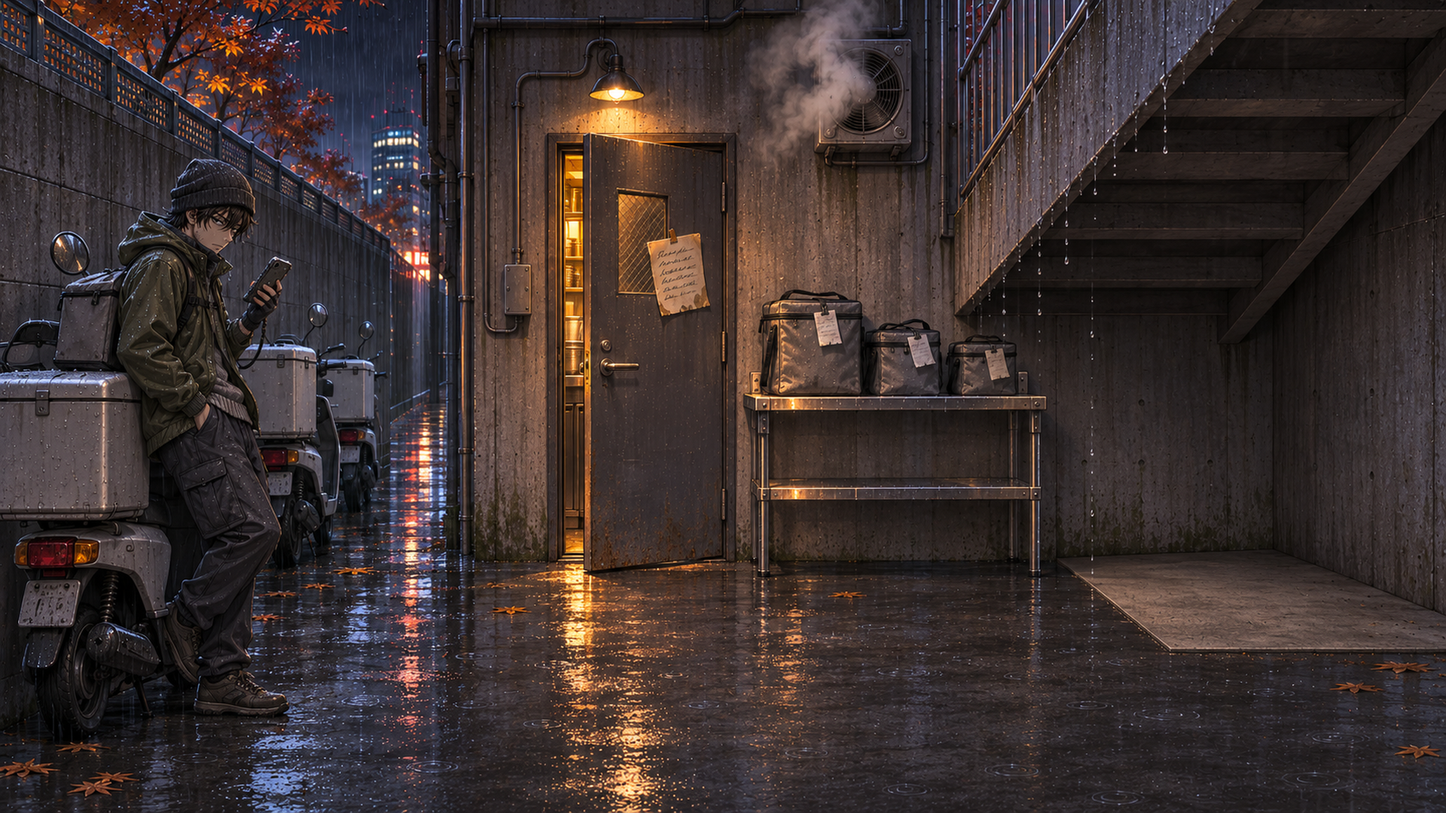
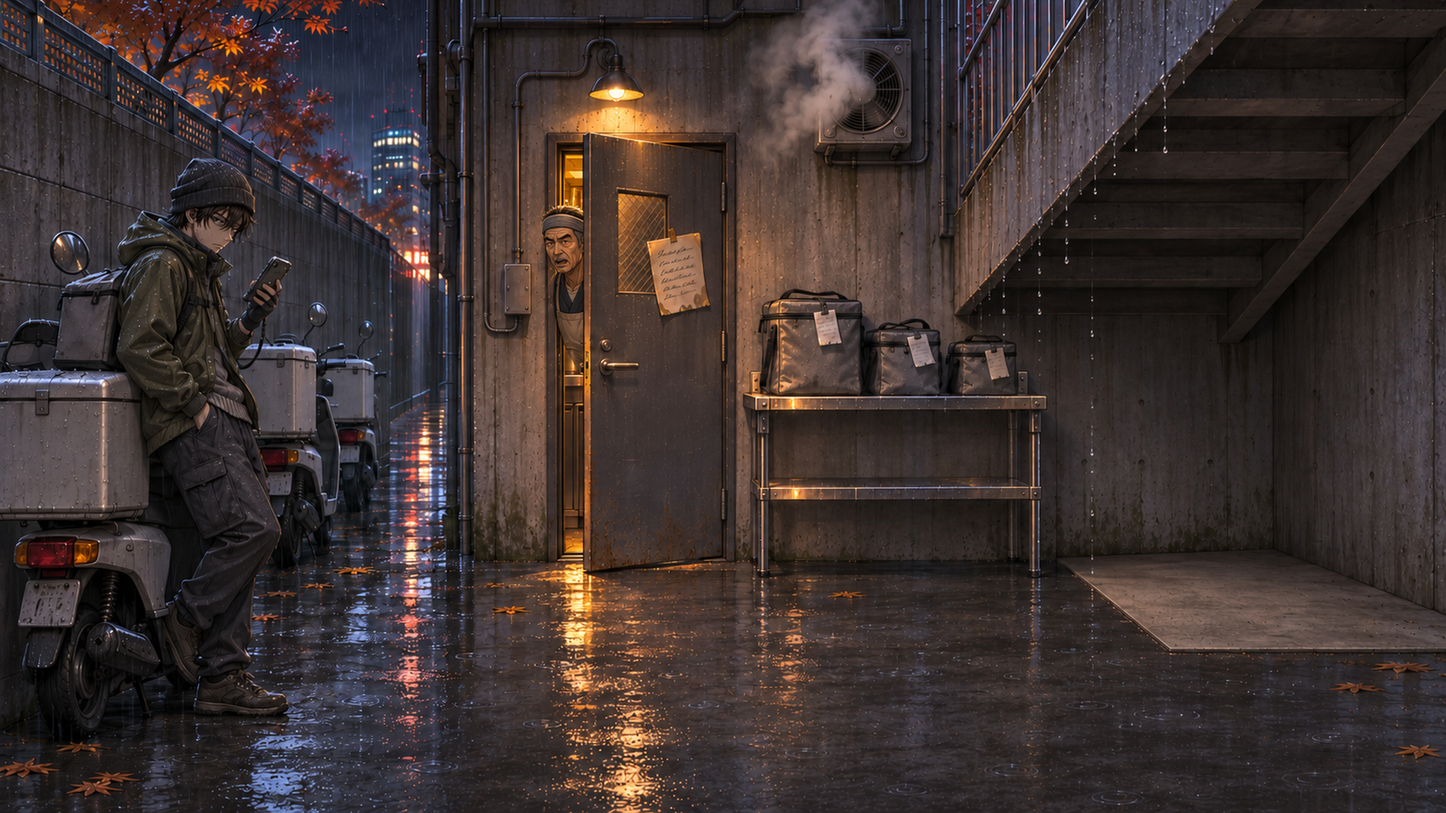
art: add chapter 2 investigation witnesses

diff --git a/docs/stories_plan/chapter_2/investigation_scene_10.md b/docs/stories_plan/chapter_2/investigation_scene_10.md
@@ -128,7 +128,7 @@
 
 ## Sub-location: 拉麵店後門 {#ramen_backdoor}
 - **Status:** locked
-- **Background Prompt:** Investigation view deeper in the same narrow alley at night in light rain, eye-level medium shot facing the rear service door of a small late-night ramen shop at the alley's end, focal area on the back door standing slightly ajar with warm yellow light, a small bare lamp just above it, and a stainless-steel delivery pickup shelf bolted to the wall at the right of the door, holding a few gray insulated bags with soft limp paper slips clipped to their mouths, a hand-written paper notice taped crookedly on the door with unreadable scrawl; an exhaust fan high on the wall above the door breathing out white steam; the dark concrete underside of the staircase forming a low eave over a clearly dry rectangle of pavement to the right of the shelf with a sharp dry-to-wet boundary and a row of drips falling along the stair edge, kept empty; stable anchors of delivery scooters parked along the left wall and glistening puddles carrying faint shifting white and orange light, with the shelf, the dry rectangle and the puddles all sitting in the mid-ground above the bottom third; the giant facade screen itself is not visible anywhere in frame, only its shifting light on the wet ground; no one in the doorway. Yuzuki Riku baked into the left side of the frame: Japanese night-shift food delivery rider in his early twenties, wiry tired build with slightly hunched guarded shoulders, dark olive-green hooded waterproof shell jacket beaded with rain over a gray knit sweater, hood down so the charcoal knit beanie is visible, no reflective strips, plain unbranded square insulated delivery backpack in dull gray, phone in a rubber bike-mount case on a wrist lanyard, cheap fingerless gloves, faint stubble and sleepless eyes, standing left of the back door beside the row of parked scooters and leaning against one, well clear of the shelf, the taped notice and the dry patch, half turned away with a wary guarded look and his eyes on his phone, perspective-correct scale, not covering the shelf, the notice, the exhaust fan or the empty dry patch. No blue umbrellas, lower third kept as plain wet alley floor for dialogue UI, no readable text, no UI overlay, neo-noir visual novel background.
+- **Background Prompt:** Investigation view deeper in the same narrow alley at night in light rain, eye-level medium shot facing the rear service door of a small late-night ramen shop at the alley's end, focal area on the back door standing slightly ajar with warm yellow light, a small bare lamp just above it, and a stainless-steel delivery pickup shelf bolted to the wall at the right of the door, holding a few gray insulated bags with soft limp paper slips clipped to their mouths, a hand-written paper notice taped crookedly on the door with unreadable scrawl; an exhaust fan high on the wall above the door breathing out white steam; the dark concrete underside of the staircase forming a low eave over a clearly dry rectangle of pavement to the right of the shelf with a sharp dry-to-wet boundary and a row of drips falling along the stair edge, kept empty; stable anchors of delivery scooters parked along the left wall and glistening puddles carrying faint shifting white and orange light, with the shelf, the dry rectangle and the puddles all sitting in the mid-ground above the bottom third; the giant facade screen itself is not visible anywhere in frame, only its shifting light on the wet ground; the ramen shop owner, a stern Japanese man in his sixties in dark kitchen work clothes and an apron, is visible from the head and shoulders inside the narrow warm-lit doorway, speaking through the partly open door without covering the notice. Yuzuki Riku baked into the left side of the frame: Japanese night-shift food delivery rider in his early twenties, wiry tired build with slightly hunched guarded shoulders, dark olive-green hooded waterproof shell jacket beaded with rain over a gray knit sweater, hood down so the charcoal knit beanie is visible, no reflective strips, plain unbranded square insulated delivery backpack in dull gray, phone in a rubber bike-mount case on a wrist lanyard, cheap fingerless gloves, faint stubble and sleepless eyes, standing left of the back door beside the row of parked scooters and leaning against one, well clear of the shelf, the taped notice and the dry patch, half turned away with a wary guarded look and his eyes on his phone, perspective-correct scale, not covering the shelf, the notice, the exhaust fan or the empty dry patch. No blue umbrellas, lower third kept as plain wet alley floor for dialogue UI, no readable text, no UI overlay, neo-noir visual novel background.
 - **BGM:** bgm_midnight_blind_window
 - **BGS:** bgs_shopping_street_rain_night
 

diff --git a/docs/stories_plan/chapter_2/investigation_scene_14.md b/docs/stories_plan/chapter_2/investigation_scene_14.md
@@ -549,7 +549,7 @@
 
 ## Sub-location: 防災中心 {#disaster_center}
 - **Status:** locked
-- **Background Prompt:** Investigation view inside the daytime duty room of a commercial building's disaster-prevention center, eye-level wide shot from just inside the door, used to read the building's own records of that night; focal area across three clear zones: at the left a whole wall covered by a fire-alarm and building-systems panel with rows of small status lamps, mostly dark with a few rows lit amber and tiny yellow police notes stuck beside several lamps; at the center on a worn duty desk a desk-mounted access-control terminal with a card reader and a bright screen of abstract rows; at the right on a shelf a bank of small gray CCTV monitors showing dim grainy frames of building doors; stable anchors of a large glass window in the back wall looking out onto the first-floor service-core corridor with the brushed steel door of service elevator B, a heavy gray evacuation-stair door with a push bar, and at the far end a pale back-exit door with rainy daylight at its edges; a swivel chair pushed back from the desk, a paper cup of tea going cold beside the terminal, a plastic stool against the right wall with a small thermos on it; cold fluorescent light mixed with the gray window light, no people, no faces, no blue umbrellas, lower third kept as plain floor tile and desk edge for dialogue UI, no readable text, no UI overlay, neo-noir visual novel background.
+- **Background Prompt:** Investigation view inside the daytime duty room of a commercial building's disaster-prevention center, eye-level wide shot from just inside the door, used to read the building's own records of that night; focal area across three clear zones: at the left a whole wall covered by a fire-alarm and building-systems panel with rows of small status lamps, mostly dark with a few rows lit amber and tiny yellow police notes stuck beside several lamps; at the center on a worn duty desk a desk-mounted access-control terminal with a card reader and a bright screen of abstract rows; at the right on a shelf a bank of small gray CCTV monitors showing dim grainy frames of building doors; stable anchors of a large glass window in the back wall looking out onto the first-floor service-core corridor with the brushed steel door of service elevator B, a heavy gray evacuation-stair door with a push bar, and at the far end a pale back-exit door with rainy daylight at its edges; a swivel chair pushed back from the desk, a paper cup of tea going cold beside the terminal, a plastic stool against the right wall with a small thermos on it; the building guard in a dark security uniform stands beside the left panel, and the cleaning worker in their fifties sits in the swivel chair holding a thermos cup, their silhouettes separate and the panel, terminal and CCTV monitors still visible; cold fluorescent light mixed with the gray window light, no blue umbrellas, lower third kept as plain floor tile and desk edge for dialogue UI, no readable text, no UI overlay, neo-noir visual novel background.
 - **BGM:** bgm_casework_day
 - **BGS:** bgs_institutional_corridor
 
